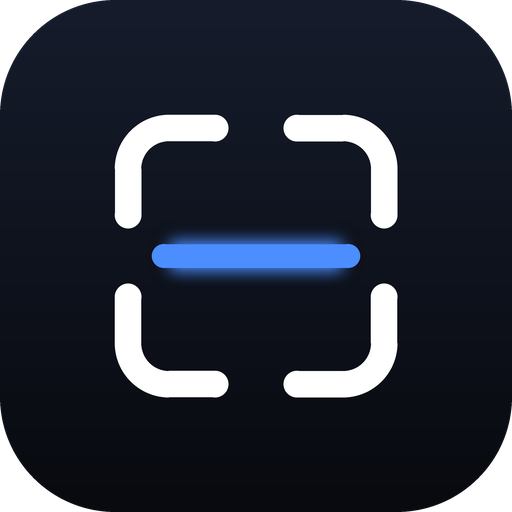
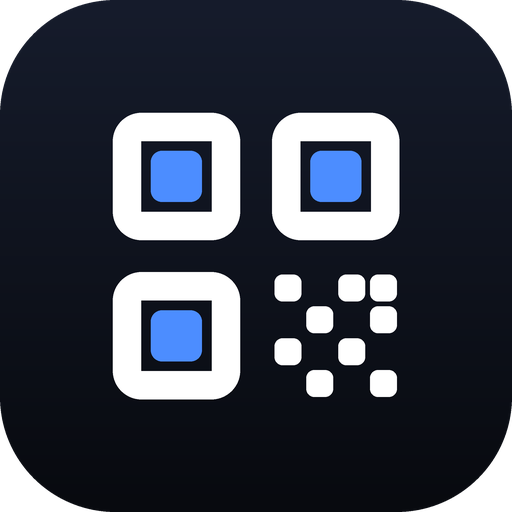
v1.0.3：圖示改為 QR 縮圖樣式，App 名稱改為「QR掃描器」
Claude-Session: https://claude.ai/code/session_015SpMVDgPZYUG3YzSEFVpks

Changed region(s): [[0.2188, 0.2188, 0.7812, 0.7812], [0.5938, 0.5938, 0.6562, 0.6562]]

diff --git a/install.html b/install.html
@@ -4,7 +4,7 @@
 <meta charset="utf-8">
 <!-- 此檔由 tools/build.py 產生；請改 build.py 的模板後重新執行，勿直接手改。 -->
 <meta name="viewport" content="width=device-width, initial-scale=1, viewport-fit=cover">
-<title>安裝 Scanly · QR 掃描器</title>
+<title>安裝 QR掃描器 · QR 掃描器</title>
 <meta name="theme-color" content="#0A0C10">
 <meta name="color-scheme" content="dark light">
 <link rel="icon" type="image/png" href="icon-192.png">
@@ -62,12 +62,12 @@ footer{text-align:center;color:var(--muted);font-size:12.5px;padding:6px 0}
 <body>
 <main>
   <header>
-    <img src="icon-192.png" alt="Scanly 圖示" width="60" height="60">
-    <div><h1>安裝 Scanly</h1><p>像原生 App 一樣使用，離線也能掃描。</p></div>
+    <img src="icon-192.png" alt="QR掃描器 圖示" width="60" height="60">
+    <div><h1>安裝 QR掃描器</h1><p>像原生 App 一樣使用，離線也能掃描。</p></div>
   </header>
 
   <section class="card qr-card" aria-label="安裝 QR Code">
-    <div class="qr"><svg xmlns="http://www.w3.org/2000/svg" viewBox="0 0 37 37" role="img" aria-label="安裝 Scanly 的 QR Code" shape-rendering="crispEdges"><rect width="37" height="37" fill="#fff"/><path fill="#000" d="M4 4h7v1h-7zM13 4h3v1h-3zM18 4h2v1h-2zM21 4h3v1h-3zM26 4h7v1h-7zM4 5h1v1h-1zM10 5h1v1h-1zM12 5h6v1h-6zM19 5h3v1h-3zM23 5h2v1h-2zM26 5h1v1h-1zM32 5h1v1h-1zM4 6h1v1h-1zM6 6h3v1h-3zM10 6h1v1h-1zM13 6h2v1h-2zM16 6h1v1h-1zM19 6h2v1h-2zM23 6h1v1h-1zM26 6h1v1h-1zM28 6h3v1h-3zM32 6h1v1h-1zM4 7h1v1h-1zM6 7h3v1h-3zM10 7h1v1h-1zM13 7h2v1h-2zM16 7h1v1h-1zM18 7h2v1h-2zM22 7h2v1h-2zM26 7h1v1h-1zM28 7h3v1h-3zM32 7h1v1h-1zM4 8h1v1h-1zM6 8h3v1h-3zM10 8h1v1h-1zM12 8h2v1h-2zM16 8h4v1h-4zM23 8h1v1h-1zM26 8h1v1h-1zM28 8h3v1h-3zM32 8h1v1h-1zM4 9h1v1h-1zM10 9h1v1h-1zM13 9h4v1h-4zM18 9h6v1h-6zM26 9h1v1h-1zM32 9h1v1h-1zM4 10h7v1h-7zM12 10h1v1h-1zM14 10h1v1h-1zM16 10h1v1h-1zM18 10h1v1h-1zM20 10h1v1h-1zM22 10h1v1h-1zM24 10h1v1h-1zM26 10h7v1h-7zM13 11h1v1h-1zM15 11h3v1h-3zM21 11h1v1h-1zM24 11h1v1h-1zM4 12h1v1h-1zM6 12h1v1h-1zM8 12h1v1h-1zM10 12h1v1h-1zM16 12h2v1h-2zM21 12h1v1h-1zM23 12h2v1h-2zM28 12h1v1h-1zM31 12h1v1h-1zM8 13h2v1h-2zM11 13h4v1h-4zM20 13h1v1h-1zM25 13h2v1h-2zM29 13h1v1h-1zM32 13h1v1h-1zM4 14h1v1h-1zM6 14h2v1h-2zM9 14h5v1h-5zM15 14h1v1h-1zM17 14h1v1h-1zM22 14h1v1h-1zM25 14h2v1h-2zM28 14h1v1h-1zM30 14h3v1h-3zM4 15h1v1h-1zM6 15h2v1h-2zM9 15h1v1h-1zM13 15h2v1h-2zM16 15h2v1h-2zM19 15h3v1h-3zM24 15h1v1h-1zM27 15h2v1h-2zM31 15h1v1h-1zM4 16h1v1h-1zM6 16h2v1h-2zM9 16h3v1h-3zM13 16h1v1h-1zM16 16h2v1h-2zM19 16h3v1h-3zM24 16h3v1h-3zM29 16h1v1h-1zM31 16h2v1h-2zM4 17h1v1h-1zM7 17h1v1h-1zM9 17h1v1h-1zM17 17h1v1h-1zM21 17h2v1h-2zM24 17h3v1h-3zM29 17h1v1h-1zM32 17h1v1h-1zM10 18h4v1h-4zM15 18h2v1h-2zM20 18h1v1h-1zM25 18h2v1h-2zM28 18h2v1h-2zM31 18h2v1h-2zM6 19h2v1h-2zM9 19h1v1h-1zM14 19h2v1h-2zM17 19h2v1h-2zM21 19h2v1h-2zM24 19h2v1h-2zM29 19h1v1h-1zM31 19h1v1h-1zM4 20h5v1h-5zM10 20h1v1h-1zM13 20h5v1h-5zM21 20h1v1h-1zM23 20h5v1h-5zM29 20h1v1h-1zM31 20h2v1h-2zM7 21h2v1h-2zM13 21h6v1h-6zM20 21h2v1h-2zM24 21h1v1h-1zM26 21h1v1h-1zM29 21h2v1h-2zM32 21h1v1h-1zM4 22h1v1h-1zM7 22h6v1h-6zM14 22h1v1h-1zM16 22h3v1h-3zM21 22h2v1h-2zM24 22h5v1h-5zM31 22h2v1h-2zM5 23h1v1h-1zM8 23h1v1h-1zM12 23h1v1h-1zM15 23h3v1h-3zM19 23h1v1h-1zM21 23h1v1h-1zM27 23h1v1h-1zM29 23h1v1h-1zM31 23h1v1h-1zM4 24h1v1h-1zM6 24h2v1h-2zM9 24h2v1h-2zM12 24h3v1h-3zM16 24h3v1h-3zM21 24h2v1h-2zM24 24h5v1h-5zM12 25h1v1h-1zM14 25h3v1h-3zM20 25h1v1h-1zM24 25h1v1h-1zM28 25h1v1h-1zM30 25h3v1h-3zM4 26h7v1h-7zM13 26h2v1h-2zM17 26h1v1h-1zM21 26h1v1h-1zM23 26h2v1h-2zM26 26h1v1h-1zM28 26h2v1h-2zM31 26h2v1h-2zM4 27h1v1h-1zM10 27h1v1h-1zM13 27h2v1h-2zM17 27h2v1h-2zM20 27h2v1h-2zM24 27h1v1h-1zM28 27h2v1h-2zM31 27h2v1h-2zM4 28h1v1h-1zM6 28h3v1h-3zM10 28h1v1h-1zM12 28h2v1h-2zM18 28h4v1h-4zM24 28h5v1h-5zM4 29h1v1h-1zM6 29h3v1h-3zM10 29h1v1h-1zM13 29h1v1h-1zM15 29h1v1h-1zM23 29h1v1h-1zM25 29h1v1h-1zM27 29h2v1h-2zM30 29h3v1h-3zM4 30h1v1h-1zM6 30h3v1h-3zM10 30h1v1h-1zM12 30h3v1h-3zM16 30h3v1h-3zM22 30h1v1h-1zM24 30h1v1h-1zM27 30h3v1h-3zM32 30h1v1h-1zM4 31h1v1h-1zM10 31h1v1h-1zM15 31h1v1h-1zM18 31h1v1h-1zM20 31h3v1h-3zM24 31h1v1h-1zM26 31h1v1h-1zM31 31h1v1h-1zM4 32h7v1h-7zM12 32h2v1h-2zM15 32h7v1h-7zM23 32h5v1h-5zM31 32h2v1h-2z"/></svg></div>
+    <div class="qr"><svg xmlns="http://www.w3.org/2000/svg" viewBox="0 0 37 37" role="img" aria-label="安裝 QR掃描器 的 QR Code" shape-rendering="crispEdges"><rect width="37" height="37" fill="#fff"/><path fill="#000" d="M4 4h7v1h-7zM13 4h3v1h-3zM18 4h2v1h-2zM21 4h3v1h-3zM26 4h7v1h-7zM4 5h1v1h-1zM10 5h1v1h-1zM12 5h6v1h-6zM19 5h3v1h-3zM23 5h2v1h-2zM26 5h1v1h-1zM32 5h1v1h-1zM4 6h1v1h-1zM6 6h3v1h-3zM10 6h1v1h-1zM13 6h2v1h-2zM16 6h1v1h-1zM19 6h2v1h-2zM23 6h1v1h-1zM26 6h1v1h-1zM28 6h3v1h-3zM32 6h1v1h-1zM4 7h1v1h-1zM6 7h3v1h-3zM10 7h1v1h-1zM13 7h2v1h-2zM16 7h1v1h-1zM18 7h2v1h-2zM22 7h2v1h-2zM26 7h1v1h-1zM28 7h3v1h-3zM32 7h1v1h-1zM4 8h1v1h-1zM6 8h3v1h-3zM10 8h1v1h-1zM12 8h2v1h-2zM16 8h4v1h-4zM23 8h1v1h-1zM26 8h1v1h-1zM28 8h3v1h-3zM32 8h1v1h-1zM4 9h1v1h-1zM10 9h1v1h-1zM13 9h4v1h-4zM18 9h6v1h-6zM26 9h1v1h-1zM32 9h1v1h-1zM4 10h7v1h-7zM12 10h1v1h-1zM14 10h1v1h-1zM16 10h1v1h-1zM18 10h1v1h-1zM20 10h1v1h-1zM22 10h1v1h-1zM24 10h1v1h-1zM26 10h7v1h-7zM13 11h1v1h-1zM15 11h3v1h-3zM21 11h1v1h-1zM24 11h1v1h-1zM4 12h1v1h-1zM6 12h1v1h-1zM8 12h1v1h-1zM10 12h1v1h-1zM16 12h2v1h-2zM21 12h1v1h-1zM23 12h2v1h-2zM28 12h1v1h-1zM31 12h1v1h-1zM8 13h2v1h-2zM11 13h4v1h-4zM20 13h1v1h-1zM25 13h2v1h-2zM29 13h1v1h-1zM32 13h1v1h-1zM4 14h1v1h-1zM6 14h2v1h-2zM9 14h5v1h-5zM15 14h1v1h-1zM17 14h1v1h-1zM22 14h1v1h-1zM25 14h2v1h-2zM28 14h1v1h-1zM30 14h3v1h-3zM4 15h1v1h-1zM6 15h2v1h-2zM9 15h1v1h-1zM13 15h2v1h-2zM16 15h2v1h-2zM19 15h3v1h-3zM24 15h1v1h-1zM27 15h2v1h-2zM31 15h1v1h-1zM4 16h1v1h-1zM6 16h2v1h-2zM9 16h3v1h-3zM13 16h1v1h-1zM16 16h2v1h-2zM19 16h3v1h-3zM24 16h3v1h-3zM29 16h1v1h-1zM31 16h2v1h-2zM4 17h1v1h-1zM7 17h1v1h-1zM9 17h1v1h-1zM17 17h1v1h-1zM21 17h2v1h-2zM24 17h3v1h-3zM29 17h1v1h-1zM32 17h1v1h-1zM10 18h4v1h-4zM15 18h2v1h-2zM20 18h1v1h-1zM25 18h2v1h-2zM28 18h2v1h-2zM31 18h2v1h-2zM6 19h2v1h-2zM9 19h1v1h-1zM14 19h2v1h-2zM17 19h2v1h-2zM21 19h2v1h-2zM24 19h2v1h-2zM29 19h1v1h-1zM31 19h1v1h-1zM4 20h5v1h-5zM10 20h1v1h-1zM13 20h5v1h-5zM21 20h1v1h-1zM23 20h5v1h-5zM29 20h1v1h-1zM31 20h2v1h-2zM7 21h2v1h-2zM13 21h6v1h-6zM20 21h2v1h-2zM24 21h1v1h-1zM26 21h1v1h-1zM29 21h2v1h-2zM32 21h1v1h-1zM4 22h1v1h-1zM7 22h6v1h-6zM14 22h1v1h-1zM16 22h3v1h-3zM21 22h2v1h-2zM24 22h5v1h-5zM31 22h2v1h-2zM5 23h1v1h-1zM8 23h1v1h-1zM12 23h1v1h-1zM15 23h3v1h-3zM19 23h1v1h-1zM21 23h1v1h-1zM27 23h1v1h-1zM29 23h1v1h-1zM31 23h1v1h-1zM4 24h1v1h-1zM6 24h2v1h-2zM9 24h2v1h-2zM12 24h3v1h-3zM16 24h3v1h-3zM21 24h2v1h-2zM24 24h5v1h-5zM12 25h1v1h-1zM14 25h3v1h-3zM20 25h1v1h-1zM24 25h1v1h-1zM28 25h1v1h-1zM30 25h3v1h-3zM4 26h7v1h-7zM13 26h2v1h-2zM17 26h1v1h-1zM21 26h1v1h-1zM23 26h2v1h-2zM26 26h1v1h-1zM28 26h2v1h-2zM31 26h2v1h-2zM4 27h1v1h-1zM10 27h1v1h-1zM13 27h2v1h-2zM17 27h2v1h-2zM20 27h2v1h-2zM24 27h1v1h-1zM28 27h2v1h-2zM31 27h2v1h-2zM4 28h1v1h-1zM6 28h3v1h-3zM10 28h1v1h-1zM12 28h2v1h-2zM18 28h4v1h-4zM24 28h5v1h-5zM4 29h1v1h-1zM6 29h3v1h-3zM10 29h1v1h-1zM13 29h1v1h-1zM15 29h1v1h-1zM23 29h1v1h-1zM25 29h1v1h-1zM27 29h2v1h-2zM30 29h3v1h-3zM4 30h1v1h-1zM6 30h3v1h-3zM10 30h1v1h-1zM12 30h3v1h-3zM16 30h3v1h-3zM22 30h1v1h-1zM24 30h1v1h-1zM27 30h3v1h-3zM32 30h1v1h-1zM4 31h1v1h-1zM10 31h1v1h-1zM15 31h1v1h-1zM18 31h1v1h-1zM20 31h3v1h-3zM24 31h1v1h-1zM26 31h1v1h-1zM31 31h1v1h-1zM4 32h7v1h-7zM12 32h2v1h-2zM15 32h7v1h-7zM23 32h5v1h-5zM31 32h2v1h-2z"/></svg></div>
     <div class="qr-info">
       <h2>用手機掃描這個 QR Code</h2>
       <p>開啟相機或任何掃描器，掃描後在瀏覽器開啟，再依下方步驟加入主畫面。</p>
@@ -94,7 +94,7 @@ footer{text-align:center;color:var(--muted);font-size:12.5px;padding:6px 0}
         <li><span>用 Safari 開啟上方連結（掃描 QR Code 或按「直接開啟」）。</span></li>
         <li><span>點選「分享」按鈕<svg class="ic" viewBox="0 0 24 24"><path d="M4 12v8a2 2 0 0 0 2 2h12a2 2 0 0 0 2-2v-8"/><polyline points="16 6 12 2 8 6"/><line x1="12" x2="12" y1="2" y2="15"/></svg>（iPhone 在畫面底部，iPad 在右上角；若看不到，先點網址列旁或底部的「⋯」）。</span></li>
         <li><span>向下捲動選單，點「加入主畫面」<svg class="ic" viewBox="0 0 24 24"><rect width="18" height="18" x="3" y="3" rx="2"/><path d="M8 12h8"/><path d="M12 8v8"/></svg>。</span></li>
-        <li><span>確認名稱後點右上角「新增」，主畫面就會出現 Scanly。</span></li>
+        <li><span>確認名稱後點右上角「新增」，主畫面就會出現 QR掃描器。</span></li>
       </ol>
       <p class="note">iOS 版本不同，選單位置可能略有差異；若沒有「加入主畫面」，請確認是用 Safari 開啟，而非應用程式內建瀏覽器。</p>
     </div>
@@ -108,7 +108,7 @@ footer{text-align:center;color:var(--muted);font-size:12.5px;padding:6px 0}
         <li><span>選擇「安裝應用程式」（部分版本為「加到主畫面」，再選「安裝」）。</span></li>
         <li><span>在確認視窗按「安裝」，之後可從主畫面或應用程式清單開啟。</span></li>
       </ol>
-      <p class="note">若選單裡沒有安裝選項，請先在 Scanly 頁面停留幾秒並重新整理一次，Chrome 才會判定為可安裝。</p>
+      <p class="note">若選單裡沒有安裝選項，請先在 QR掃描器 頁面停留幾秒並重新整理一次，Chrome 才會判定為可安裝。</p>
     </div>
 
     <div class="panel" id="p-desktop" role="tabpanel" aria-labelledby="t-desktop">
@@ -117,16 +117,16 @@ footer{text-align:center;color:var(--muted);font-size:12.5px;padding:6px 0}
       <ol>
         <li><span>用 Chrome 或 Edge 開啟上方連結。</span></li>
         <li><span>點網址列右側的「安裝」圖示<svg class="ic" viewBox="0 0 24 24"><path d="M21 15v4a2 2 0 0 1-2 2H5a2 2 0 0 1-2-2v-4"/><polyline points="7 10 12 15 17 10"/><line x1="12" x2="12" y1="15" y2="3"/></svg>。</span></li>
-        <li><span>在彈出視窗按「安裝」，Scanly 會以獨立視窗開啟，並出現在開始功能表或應用程式清單。</span></li>
+        <li><span>在彈出視窗按「安裝」，QR掃描器 會以獨立視窗開啟，並出現在開始功能表或應用程式清單。</span></li>
       </ol>
-      <p class="note">沒看到圖示？也可從瀏覽器選單找「安裝 Scanly」或「將此網站安裝為應用程式」。Firefox 桌面版目前不支援安裝網頁 App；macOS Safari 17 以上可用「檔案 → 加入 Dock」。</p>
+      <p class="note">沒看到圖示？也可從瀏覽器選單找「安裝 QR掃描器」或「將此網站安裝為應用程式」。Firefox 桌面版目前不支援安裝網頁 App；macOS Safari 17 以上可用「檔案 → 加入 Dock」。</p>
     </div>
   </section>
 
   <section class="card">
     <div class="ok"><svg class="ic" viewBox="0 0 24 24"><polyline points="20 6 9 17 4 12"/></svg><span>安裝後可離線使用；有新版本時，App 內會顯示「有新版本可用．立即更新」。掃描全程只在你的裝置上處理，不會上傳影像。</span></div>
   </section>
-  <footer>Scanly · 版本頁面連結：https://mathedu-prog.github.io/qr-scanner/</footer>
+  <footer>QR掃描器 · 版本頁面連結：https://mathedu-prog.github.io/qr-scanner/</footer>
 </main>
 <div id="toast" role="status"></div>
 

diff --git a/index.html b/index.html
@@ -3,14 +3,14 @@
 <head>
 <meta charset="utf-8">
 <!-- ============================================================
-  Scanly · QR 掃描器（PWA）
+  QR掃描器 · QR 掃描器（PWA）
   單一檔案主程式：HTML + CSS + JavaScript 全部內建。
   依賴：同層的 jsQR.js（離線備援解碼器）、manifest.json、sw.js 與圖示。
   功能：相機即時掃描、相簿圖片解碼、結果智慧解析、歷史紀錄、
         深淺色主題、離線可用、可安裝、新版本更新提示。
 ============================================================ -->
 <meta name="viewport" content="width=device-width, initial-scale=1, viewport-fit=cover">
-<title>Scanly · QR 掃描器</title>
+<title>QR掃描器</title>
 <meta name="description" content="快速、安全、可離線使用的 QR Code 與條碼掃描器。">
 
 <!-- PWA / iOS / Android 設定 -->
@@ -19,7 +19,7 @@
 <meta name="apple-mobile-web-app-capable" content="yes">
 <meta name="mobile-web-app-capable" content="yes">
 <meta name="apple-mobile-web-app-status-bar-style" content="black-translucent">
-<meta name="apple-mobile-web-app-title" content="Scanly">
+<meta name="apple-mobile-web-app-title" content="QR掃描器">
 <meta name="format-detection" content="telephone=no">
 <link rel="manifest" href="manifest.json">
 <link rel="apple-touch-icon" href="apple-touch-icon.png">
@@ -338,7 +338,7 @@ a{color:inherit;text-decoration:none}
       <div class="inner">
         <div class="badge"><svg class="ic xl" id="camIcon"><use href="#i-camera"/></svg></div>
         <h2 id="camTitle">開啟相機開始掃描</h2>
-        <p id="camDesc">Scanly 只會在你的裝置上解碼，影像不會上傳到任何伺服器。</p>
+        <p id="camDesc">QR掃描器 只會在你的裝置上解碼，影像不會上傳到任何伺服器。</p>
         <button class="btn primary block" id="btnStart"><svg class="ic sm"><use href="#i-camera"/></svg><span id="btnStartTxt">開啟相機</span></button>
         <button class="btn ghost block" id="btnGallery2"><svg class="ic sm"><use href="#i-image"/></svg>從相簿選擇圖片</button>
       </div>
@@ -414,7 +414,7 @@ a{color:inherit;text-decoration:none}
       <div class="group-label">關於</div>
       <div class="card">
         <div class="row"><span class="ri"><svg class="ic sm"><use href="#i-shield"/></svg></span>
-          <span class="rt"><b>完全本機運算</b><small>相機影像只在你的裝置上處理，Scanly 不會收集或上傳任何掃描內容。離線也能使用。</small></span></div>
+          <span class="rt"><b>完全本機運算</b><small>相機影像只在你的裝置上處理，QR掃描器 不會收集或上傳任何掃描內容。離線也能使用。</small></span></div>
       </div>
     </div></div>
   </section>
@@ -446,12 +446,12 @@ a{color:inherit;text-decoration:none}
 <script>
 'use strict';
 /* ============================================================
-   Scanly 主程式
+   QR掃描器 主程式
    區段：0 工具 → 1 設定 → 2 UI 元件 → 3 內容解析 → 4 歷史紀錄
         → 5 結果面板 → 6 相機與解碼 → 7 分頁導覽 → 8 設定頁
         → 9 PWA（Service Worker、安裝、更新）→ 10 啟動
 ============================================================ */
-const APP_VERSION = '1.0.2';            // 顯示用版本；快取版本請看 sw.js 的 VERSION
+const APP_VERSION = '1.0.3';            // 顯示用版本；快取版本請看 sw.js 的 VERSION
 const NS = 'http://www.w3.org/2000/svg';
 const $  = (s, r = document) => r.querySelector(s);
 const $$ = (s, r = document) => [...r.querySelectorAll(s)];
@@ -614,7 +614,7 @@ function analyze(text, fmt) {
 
   if (/^(javascript|data|vbscript|file|blob):/i.test(t)) {
     r.type = 'unsafe'; r.label = '可疑內容'; r.icon = 'alert';
-    r.warns.push('此內容含有程式碼或本機資源協定，Scanly 不會自動執行。請勿在不信任的來源貼上或執行。');
+    r.warns.push('此內容含有程式碼或本機資源協定，QR掃描器 不會自動執行。請勿在不信任的來源貼上或執行。');
   } else if (/^WIFI:/i.test(t)) {
     const w = parseWifi(t); r.type = 'wifi'; r.label = 'Wi‑Fi 網路'; r.icon = 'wifi'; r.title = 'Wi‑Fi：' + (w.S || '未命名');
     add('網路名稱', w.S); add('加密', w.T && w.T !== 'nopass' ? w.T : '無（開放網路）');
@@ -655,7 +655,7 @@ function analyze(text, fmt) {
       r.actions.push({ label: '開啟連結', icon: 'external', primary: true, href: u.href, external: true });
     } else if (u && /^[a-z][a-z0-9+.-]*:$/i.test(u.protocol) && /^[a-z][a-z0-9+.-]*:\/\//i.test(t)) {
       r.type = 'app'; r.label = '應用程式連結'; r.icon = 'app'; add('協定', u.protocol.replace(':', ''));
-      r.warns.push('這個連結會交給其他 App 處理，Scanly 不會自動開啟。請確認來源可信後再手動使用。');
+      r.warns.push('這個連結會交給其他 App 處理，QR掃描器 不會自動開啟。請確認來源可信後再手動使用。');
     } else if (/^\d{8,14}$/.test(t) && fmt && fmt !== 'qr_code') {
       r.type = 'product'; r.label = '商品條碼'; r.icon = 'barcode'; r.title = t;
       r.actions.push({ label: '上網搜尋此條碼', icon: 'search', primary: true, href: 'https://www.google.com/search?q=' + encodeURIComponent(t), external: true });
@@ -709,7 +709,7 @@ $('#btnExport').onclick = async () => {
       const a = analyze(x.text, x.fmt); return [new Date(x.ts).toLocaleString('zh-TW', { hour12: false }), a.label, FMT_NAME[x.fmt] || x.fmt, x.fav ? '是' : '', x.text].map(esc).join(',');
     }).join('\n');
     const file = new File([csv], 'scanly-history.csv', { type: 'text/csv' });
-    if (navigator.canShare && navigator.canShare({ files: [file] })) { await navigator.share({ files: [file], title: 'Scanly 掃描紀錄' }); }
+    if (navigator.canShare && navigator.canShare({ files: [file] })) { await navigator.share({ files: [file], title: 'QR掃描器 掃描紀錄' }); }
     else downloadBlob(file, 'scanly-history.csv');
   } catch (e) { if (e.name !== 'AbortError') { console.error(e); toast('匯出失敗'); } }
 };
@@ -966,14 +966,14 @@ let deferredPrompt = null;
 const isStandalone = () => matchMedia('(display-mode: standalone)').matches || navigator.standalone === true;
 const isIOS = () => /iphone|ipad|ipod/i.test(navigator.userAgent) || (navigator.platform === 'MacIntel' && navigator.maxTouchPoints > 1);
 window.addEventListener('beforeinstallprompt', e => { e.preventDefault(); deferredPrompt = e; refreshInstallHint(); });
-window.addEventListener('appinstalled', () => { deferredPrompt = null; refreshInstallHint(); toast('已安裝 Scanly'); });
+window.addEventListener('appinstalled', () => { deferredPrompt = null; refreshInstallHint(); toast('已安裝 QR掃描器'); });
 function refreshInstallHint() {
   $('#installHint').textContent = isStandalone() ? '目前已在 APP 模式執行' : deferredPrompt ? '點此一鍵安裝到裝置' : '加入主畫面，像原生 App 一樣使用';
 }
 $('#btnInstall').onclick = () => {
   const d = $('#dialog'), bd = $('#backdrop'), close = () => { d.classList.remove('open'); if (!sheetOpen) bd.classList.remove('open'); };
-  const ios = isIOS(); const kids = [h('h3', { text: '安裝 Scanly APP' })];
-  if (isStandalone()) kids.push(h('p', { text: '你正在以獨立 APP 模式使用 Scanly，無需再安裝。' }));
+  const ios = isIOS(); const kids = [h('h3', { text: '安裝 QR掃描器 APP' })];
+  if (isStandalone()) kids.push(h('p', { text: '你正在以獨立 APP 模式使用 QR掃描器，無需再安裝。' }));
   else {
     kids.push(h('p', { text: ios ? '在 iPhone／iPad 的 Safari 依下列步驟加入主畫面：' : deferredPrompt ? '按下方按鈕即可安裝；也可依下列步驟手動安裝。' : '依你的裝置選擇下列步驟：' }));
     const steps = ios

diff --git a/sw.js b/sw.js
@@ -1,11 +1,11 @@
 /* ============================================================
-   Scanly Service Worker
+   QR掃描器 Service Worker
    - VERSION：每次發佈更新請遞增（tools/build.py --bump 會自動處理）
    - 頁面導覽：網路優先，離線時退回快取
    - 靜態資源：先回快取，同時背景更新（stale-while-revalidate）
    - 新版安裝後進入 waiting，等頁面以 postMessage("SKIP_WAITING") 通知才接管
 ============================================================ */
-const VERSION = '1.0.2';
+const VERSION = '1.0.3';
 const CACHE_PREFIX = 'scanly-';
 const CACHE_NAME = CACHE_PREFIX + VERSION;
 

diff --git a/tools/build.py b/tools/build.py
@@ -63,7 +63,7 @@ def matrix_to_svg(m, quiet=4):
             else:
                 x += 1
     return (f'<svg xmlns="http://www.w3.org/2000/svg" viewBox="0 0 {size} {size}" role="img" '
-            f'aria-label="安裝 Scanly 的 QR Code" shape-rendering="crispEdges">'
+            f'aria-label="安裝 QR掃描器 的 QR Code" shape-rendering="crispEdges">'
             f'<rect width="{size}" height="{size}" fill="#fff"/><path fill="#000" d="{"".join(segs)}"/></svg>')
 
 
@@ -94,7 +94,7 @@ def verify(url, html_path, png_path):
     ok &= t1 == url
     # 2) 從 install.html 內嵌 SVG 的 path 還原點陣後解碼（驗證實際輸出的 SVG）
     html = html_path.read_text(encoding="utf-8")
-    vb = re.search(r'<svg[^>]*viewBox="0 0 (\d+) \1"[^>]*aria-label="安裝 Scanly 的 QR Code"', html)
+    vb = re.search(r'<svg[^>]*viewBox="0 0 (\d+) \1"[^>]*aria-label="安裝 QR掃描器 的 QR Code"', html)
     d = re.search(r'<path fill="#000" d="([^"]+)"', html)
     size = int(vb.group(1))
     sc = 12
@@ -133,7 +133,7 @@ TEMPLATE = r"""<!DOCTYPE html>
 <meta charset="utf-8">
 <!-- 此檔由 tools/build.py 產生；請改 build.py 的模板後重新執行，勿直接手改。 -->
 <meta name="viewport" content="width=device-width, initial-scale=1, viewport-fit=cover">
-<title>安裝 Scanly · QR 掃描器</title>
+<title>安裝 QR掃描器 · QR 掃描器</title>
 <meta name="theme-color" content="#0A0C10">
 <meta name="color-scheme" content="dark light">
 <link rel="icon" type="image/png" href="icon-192.png">
@@ -191,8 +191,8 @@ footer{text-align:center;color:var(--muted);font-size:12.5px;padding:6px 0}
 <body>
 <main>
   <header>
-    <img src="icon-192.png" alt="Scanly 圖示" width="60" height="60">
-    <div><h1>安裝 Scanly</h1><p>像原生 App 一樣使用，離線也能掃描。</p></div>
+    <img src="icon-192.png" alt="QR掃描器 圖示" width="60" height="60">
+    <div><h1>安裝 QR掃描器</h1><p>像原生 App 一樣使用，離線也能掃描。</p></div>
   </header>
 
   <section class="card qr-card" aria-label="安裝 QR Code">
@@ -223,7 +223,7 @@ footer{text-align:center;color:var(--muted);font-size:12.5px;padding:6px 0}
         <li><span>用 Safari 開啟上方連結（掃描 QR Code 或按「直接開啟」）。</span></li>
         <li><span>點選「分享」按鈕<svg class="ic" viewBox="0 0 24 24"><path d="M4 12v8a2 2 0 0 0 2 2h12a2 2 0 0 0 2-2v-8"/><polyline points="16 6 12 2 8 6"/><line x1="12" x2="12" y1="2" y2="15"/></svg>（iPhone 在畫面底部，iPad 在右上角；若看不到，先點網址列旁或底部的「⋯」）。</span></li>
         <li><span>向下捲動選單，點「加入主畫面」<svg class="ic" viewBox="0 0 24 24"><rect width="18" height="18" x="3" y="3" rx="2"/><path d="M8 12h8"/><path d="M12 8v8"/></svg>。</span></li>
-        <li><span>確認名稱後點右上角「新增」，主畫面就會出現 Scanly。</span></li>
+        <li><span>確認名稱後點右上角「新增」，主畫面就會出現 QR掃描器。</span></li>
       </ol>
       <p class="note">iOS 版本不同，選單位置可能略有差異；若沒有「加入主畫面」，請確認是用 Safari 開啟，而非應用程式內建瀏覽器。</p>
     </div>
@@ -237,7 +237,7 @@ footer{text-align:center;color:var(--muted);font-size:12.5px;padding:6px 0}
         <li><span>選擇「安裝應用程式」（部分版本為「加到主畫面」，再選「安裝」）。</span></li>
         <li><span>在確認視窗按「安裝」，之後可從主畫面或應用程式清單開啟。</span></li>
       </ol>
-      <p class="note">若選單裡沒有安裝選項，請先在 Scanly 頁面停留幾秒並重新整理一次，Chrome 才會判定為可安裝。</p>
+      <p class="note">若選單裡沒有安裝選項，請先在 QR掃描器 頁面停留幾秒並重新整理一次，Chrome 才會判定為可安裝。</p>
     </div>
 
     <div class="panel" id="p-desktop" role="tabpanel" aria-labelledby="t-desktop">
@@ -246,16 +246,16 @@ footer{text-align:center;color:var(--muted);font-size:12.5px;padding:6px 0}
       <ol>
         <li><span>用 Chrome 或 Edge 開啟上方連結。</span></li>
         <li><span>點網址列右側的「安裝」圖示<svg class="ic" viewBox="0 0 24 24"><path d="M21 15v4a2 2 0 0 1-2 2H5a2 2 0 0 1-2-2v-4"/><polyline points="7 10 12 15 17 10"/><line x1="12" x2="12" y1="15" y2="3"/></svg>。</span></li>
-        <li><span>在彈出視窗按「安裝」，Scanly 會以獨立視窗開啟，並出現在開始功能表或應用程式清單。</span></li>
+        <li><span>在彈出視窗按「安裝」，QR掃描器 會以獨立視窗開啟，並出現在開始功能表或應用程式清單。</span></li>
       </ol>
-      <p class="note">沒看到圖示？也可從瀏覽器選單找「安裝 Scanly」或「將此網站安裝為應用程式」。Firefox 桌面版目前不支援安裝網頁 App；macOS Safari 17 以上可用「檔案 → 加入 Dock」。</p>
+      <p class="note">沒看到圖示？也可從瀏覽器選單找「安裝 QR掃描器」或「將此網站安裝為應用程式」。Firefox 桌面版目前不支援安裝網頁 App；macOS Safari 17 以上可用「檔案 → 加入 Dock」。</p>
     </div>
   </section>
 
   <section class="card">
     <div class="ok"><svg class="ic" viewBox="0 0 24 24"><polyline points="20 6 9 17 4 12"/></svg><span>安裝後可離線使用；有新版本時，App 內會顯示「有新版本可用．立即更新」。掃描全程只在你的裝置上處理，不會上傳影像。</span></div>
   </section>
-  <footer>Scanly · 版本頁面連結：{{URL}}</footer>
+  <footer>QR掃描器 · 版本頁面連結：{{URL}}</footer>
 </main>
 <div id="toast" role="status"></div>
 

diff --git a/tools/make_icons.py b/tools/make_icons.py
@@ -2,7 +2,7 @@
 """產生 PWA 圖示：icon-192.png、icon-512.png、icon-maskable-512.png、apple-touch-icon.png
 用法：python3 tools/make_icons.py
 需求：pip install pillow
-圖案：深色底 + 白色掃描框四角 + 強調色掃描線（與 App 內視覺一致）。
+圖案：深色底 + QR Code 縮圖（三個定位方塊 + 資料點）。
 """
 from pathlib import Path
 from PIL import Image, ImageDraw, ImageFilter
@@ -28,49 +28,27 @@ def gradient(size):
 
 
 def draw_mark(size, scale):
-    """畫出圖案（透明底）。scale<1 會縮小圖案，用於 maskable 的安全區。"""
+    """畫出 QR Code 縮圖樣式的圖案（透明底）：三個定位方塊 + 資料點，右下為強調色。
+    scale<1 會縮小圖案，用於 maskable 的安全區。"""
     S = size * SS
     layer = Image.new("RGBA", (S, S), (0, 0, 0, 0))
     d = ImageDraw.Draw(layer)
-    box = S * 0.50 * scale            # 掃描框邊長
+    box = S * 0.56 * scale            # 圖案邊長（9×9 格）
+    u = box / 9
     x0 = (S - box) / 2
     y0 = (S - box) / 2
-    x1, y1 = x0 + box, y0 + box
-    w = max(2, int(S * 0.052 * scale))   # 線寬
-    arm = box * 0.34                  # 角線長度
-    r = box * 0.16                    # 圓角
 
-    def corner(cx, cy, sx, sy):
-        # 以兩條直線 + 四分之一圓弧組成圓角線
-        ax, ay = cx + sx * arm, cy
-        bx, by = cx, cy + sy * arm
-        d.line([(ax, ay), (cx + sx * r, cy)], fill=WHITE, width=w)
-        d.line([(cx, cy + sy * r), (bx, by)], fill=WHITE, width=w)
-        ccx, ccy = cx + sx * r, cy + sy * r      # 圓弧圓心
-        rr = r + w / 2                           # PIL 的 arc 線寬往圓內長，外擴半個線寬才會與直線對齊
-        bb = [ccx - rr, ccy - rr, ccx + rr, ccy + rr]
-        start = {(1, 1): 180, (-1, 1): 270, (-1, -1): 0, (1, -1): 90}[(sx, sy)]
-        d.arc(bb, start, start + 90, fill=WHITE, width=w)
-        for px_, py_ in ((ax, ay), (bx, by)):      # 圓角端點
-            d.ellipse([px_ - w / 2, py_ - w / 2, px_ + w / 2, py_ + w / 2], fill=WHITE)
+    def finder(cx, cy):
+        # 定位方塊：外框 4u（線寬 0.9u）+ 中央實心方塊
+        X, Y = x0 + cx * u, y0 + cy * u
+        d.rounded_rectangle([X, Y, X + 4 * u, Y + 4 * u], radius=u * 0.9, outline=WHITE, width=int(u * 0.9))
+        d.rounded_rectangle([X + 1.2 * u, Y + 1.2 * u, X + 2.8 * u, Y + 2.8 * u], radius=u * 0.35, fill=ACCENT + (255,))
 
-    corner(x0, y0, 1, 1)
-    corner(x1, y0, -1, 1)
-    corner(x0, y1, 1, -1)
-    corner(x1, y1, -1, -1)
-
-    # 中央掃描線 + 光暈
-    cy = S / 2
-    lx0, lx1 = x0 + box * 0.14, x1 - box * 0.14
-    glow = Image.new("RGBA", (S, S), (0, 0, 0, 0))
-    gd = ImageDraw.Draw(glow)
-    gd.line([(lx0, cy), (lx1, cy)], fill=ACCENT + (255,), width=int(w * 1.6))
-    glow = glow.filter(ImageFilter.GaussianBlur(S * 0.018 * scale))
-    layer = Image.alpha_composite(layer, glow)
-    d = ImageDraw.Draw(layer)
-    d.line([(lx0, cy), (lx1, cy)], fill=ACCENT + (255,), width=int(w * 0.9))
-    for px_ in (lx0, lx1):
-        d.ellipse([px_ - w * 0.45, cy - w * 0.45, px_ + w * 0.45, cy + w * 0.45], fill=ACCENT + (255,))
+    finder(0, 0); finder(5, 0); finder(0, 5)
+    # 右下角資料點（模擬 QR 資料區）
+    for cx, cy in [(5, 5), (7, 5), (6, 6), (8, 6), (5, 7), (7, 7), (6, 8), (8, 8), (8, 5)]:
+        X, Y = x0 + cx * u, y0 + cy * u
+        d.rounded_rectangle([X + u * 0.08, Y + u * 0.08, X + u * 0.92, Y + u * 0.92], radius=u * 0.25, fill=WHITE)
     return layer
 
 
